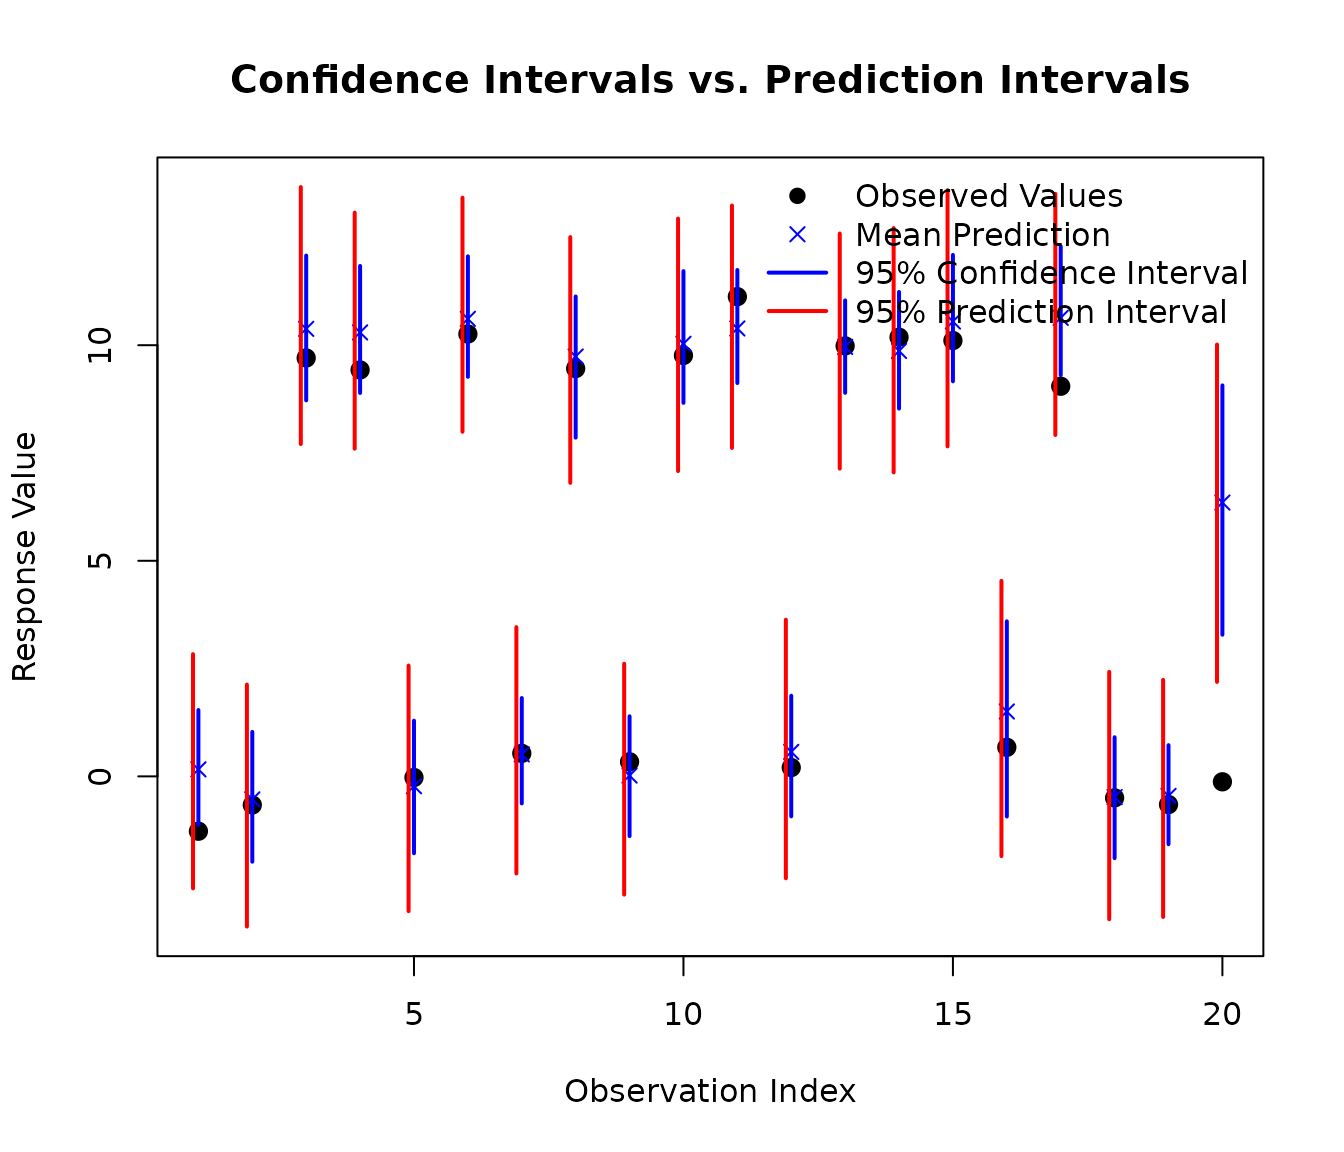
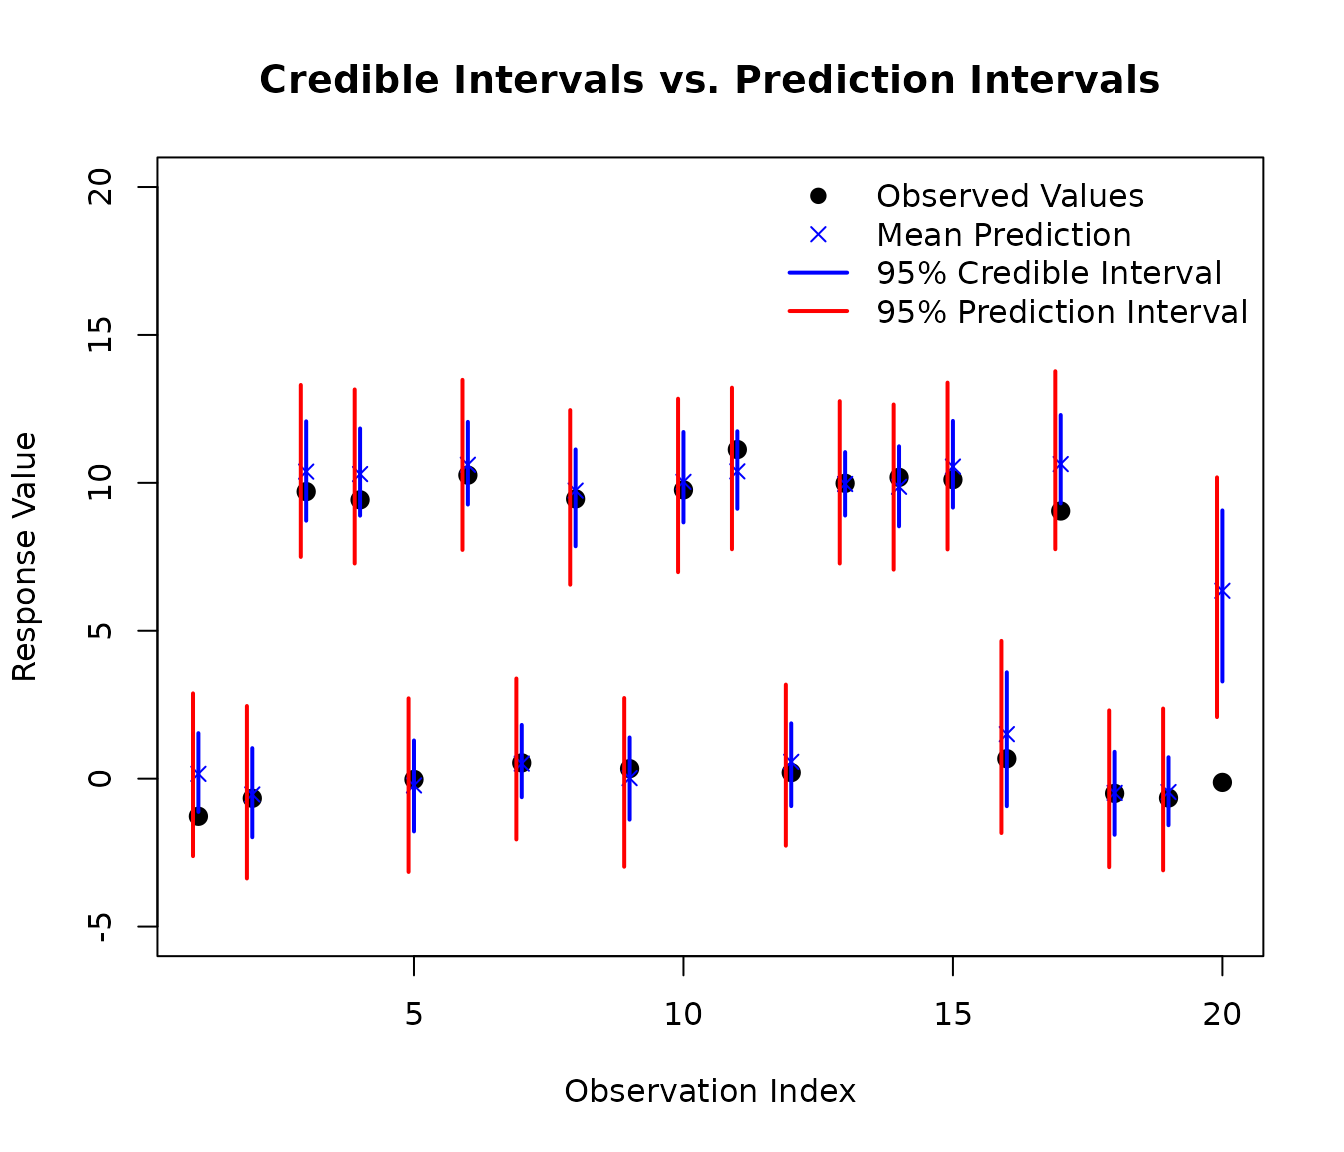
Deploying to gh-pages from @ johnpaulgosling/AddiVortes@4c081cd9cbc1d206dcb015fc3ea8facb98f16ab8 🚀

diff --git a/articles/prediction.html b/articles/prediction.html
@@ -154,7 +154,7 @@ the <code><a href="https://rdrr.io/r/stats/predict.html" class="external-link">p
 <span>                 showProgress <span class="op">=</span> <span class="cn">FALSE</span><span class="op">)</span></span>
 <span></span>
 <span><span class="co"># Predict the 90% credible interval (from 0.05 to 0.95 quantiles)</span></span>
-<span><span class="co"># By default, this uses interval = "confidence" which only accounts for</span></span>
+<span><span class="co"># By default, this uses interval = "credible" which only accounts for</span></span>
 <span><span class="co"># uncertainty in the mean function</span></span>
 <span><span class="va">preds_q</span> <span class="op">&lt;-</span> <span class="fu"><a href="https://rdrr.io/r/stats/predict.html" class="external-link">predict</a></span><span class="op">(</span><span class="va">AModel</span>, <span class="va">testX</span>,</span>
 <span>                   <span class="st">"quantile"</span>, <span class="fu"><a href="https://rdrr.io/r/base/c.html" class="external-link">c</a></span><span class="op">(</span><span class="fl">0.05</span>, <span class="fl">0.95</span><span class="op">)</span>, showProgress <span class="op">=</span> <span class="cn">FALSE</span><span class="op">)</span></span>
@@ -217,13 +217,13 @@ underlying structure of the data with predictions clustering correctly
 around the true mean values of 0 and 10.</p>
 </div>
 <div class="section level3">
-<h3 id="confidence-intervals-vs--prediction-intervals">5. Confidence Intervals vs. Prediction Intervals<a class="anchor" aria-label="anchor" href="#confidence-intervals-vs--prediction-intervals"></a>
+<h3 id="credible-intervals-vs--prediction-intervals">5. Credible Intervals vs. Prediction Intervals<a class="anchor" aria-label="anchor" href="#credible-intervals-vs--prediction-intervals"></a>
 </h3>
 <p>The <code><a href="https://rdrr.io/r/stats/predict.html" class="external-link">predict()</a></code> method supports two types of intervals,
 similar to R’s built-in <code>lm</code> function:</p>
 <ul>
-<li><p><strong>Confidence intervals</strong>
-(<code>interval = "confidence"</code>, the default): These reflect
+<li><p><strong>Credible intervals</strong>
+(<code>interval = "credible"</code>, the default): These reflect
 uncertainty in the <strong>mean function</strong> E[Y|X]. They account
 for posterior sampling variability and uncertainty in the tessellation
 structure, but do not include the inherent noise in individual
@@ -242,10 +242,10 @@ data:</p>
 <span><span class="va">testX_subset</span> <span class="op">&lt;-</span> <span class="va">testX</span><span class="op">[</span><span class="va">subset_indices</span>, <span class="op">]</span></span>
 <span><span class="va">testY_subset</span> <span class="op">&lt;-</span> <span class="va">testY</span><span class="op">[</span><span class="va">subset_indices</span><span class="op">]</span></span>
 <span></span>
-<span><span class="co"># Get confidence intervals (uncertainty in mean only)</span></span>
-<span><span class="va">conf_intervals</span> <span class="op">&lt;-</span> <span class="fu"><a href="https://rdrr.io/r/stats/predict.html" class="external-link">predict</a></span><span class="op">(</span><span class="va">AModel</span>, <span class="va">testX_subset</span>,</span>
+<span><span class="co"># Get credible intervals (uncertainty in mean only)</span></span>
+<span><span class="va">cred_intervals</span> <span class="op">&lt;-</span> <span class="fu"><a href="https://rdrr.io/r/stats/predict.html" class="external-link">predict</a></span><span class="op">(</span><span class="va">AModel</span>, <span class="va">testX_subset</span>,</span>
 <span>                         type <span class="op">=</span> <span class="st">"quantile"</span>,</span>
-<span>                         interval <span class="op">=</span> <span class="st">"confidence"</span>,</span>
+<span>                         interval <span class="op">=</span> <span class="st">"credible"</span>,</span>
 <span>                         quantiles <span class="op">=</span> <span class="fu"><a href="https://rdrr.io/r/base/c.html" class="external-link">c</a></span><span class="op">(</span><span class="fl">0.025</span>, <span class="fl">0.975</span><span class="op">)</span>,</span>
 <span>                         showProgress <span class="op">=</span> <span class="cn">FALSE</span><span class="op">)</span></span>
 <span></span>
@@ -263,19 +263,18 @@ data:</p>
 <span></span>
 <span><span class="co"># Create comparison plot</span></span>
 <span><span class="fu"><a href="https://rdrr.io/r/graphics/plot.default.html" class="external-link">plot</a></span><span class="op">(</span><span class="fl">1</span><span class="op">:</span><span class="fu"><a href="https://rdrr.io/r/base/length.html" class="external-link">length</a></span><span class="op">(</span><span class="va">testY_subset</span><span class="op">)</span>, <span class="va">testY_subset</span>,</span>
-<span>     ylim <span class="op">=</span> <span class="fu"><a href="https://rdrr.io/r/base/range.html" class="external-link">range</a></span><span class="op">(</span><span class="fu"><a href="https://rdrr.io/r/base/c.html" class="external-link">c</a></span><span class="op">(</span><span class="va">testY_subset</span>, <span class="va">pred_intervals</span><span class="op">)</span><span class="op">)</span>,</span>
 <span>     xlab <span class="op">=</span> <span class="st">"Observation Index"</span>,</span>
 <span>     ylab <span class="op">=</span> <span class="st">"Response Value"</span>,</span>
-<span>     main <span class="op">=</span> <span class="st">"Confidence Intervals vs. Prediction Intervals"</span>,</span>
-<span>     pch <span class="op">=</span> <span class="fl">19</span>, col <span class="op">=</span> <span class="st">"black"</span>, cex <span class="op">=</span> <span class="fl">1.2</span><span class="op">)</span></span>
+<span>     main <span class="op">=</span> <span class="st">"Credible Intervals vs. Prediction Intervals"</span>,</span>
+<span>     pch <span class="op">=</span> <span class="fl">19</span>, col <span class="op">=</span> <span class="st">"black"</span>, cex <span class="op">=</span> <span class="fl">1.2</span>, ylim <span class="op">=</span> <span class="fu"><a href="https://rdrr.io/r/base/c.html" class="external-link">c</a></span><span class="op">(</span><span class="op">-</span><span class="fl">5</span>,<span class="fl">20</span><span class="op">)</span><span class="op">)</span></span>
 <span></span>
 <span><span class="co"># Add mean predictions</span></span>
 <span><span class="fu"><a href="https://rdrr.io/r/graphics/points.html" class="external-link">points</a></span><span class="op">(</span><span class="fl">1</span><span class="op">:</span><span class="fu"><a href="https://rdrr.io/r/base/length.html" class="external-link">length</a></span><span class="op">(</span><span class="va">testY_subset</span><span class="op">)</span>, <span class="va">mean_preds</span>, pch <span class="op">=</span> <span class="fl">4</span>, col <span class="op">=</span> <span class="st">"blue"</span>, cex <span class="op">=</span> <span class="fl">1</span><span class="op">)</span></span>
 <span></span>
-<span><span class="co"># Add confidence intervals (narrower, in blue)</span></span>
+<span><span class="co"># Add credible intervals (narrower, in blue)</span></span>
 <span><span class="kw">for</span> <span class="op">(</span><span class="va">i</span> <span class="kw">in</span> <span class="fl">1</span><span class="op">:</span><span class="fu"><a href="https://rdrr.io/r/base/length.html" class="external-link">length</a></span><span class="op">(</span><span class="va">testY_subset</span><span class="op">)</span><span class="op">)</span> <span class="op">{</span></span>
-<span>  <span class="fu"><a href="https://rdrr.io/r/graphics/segments.html" class="external-link">segments</a></span><span class="op">(</span><span class="va">i</span>, <span class="va">conf_intervals</span><span class="op">[</span><span class="va">i</span>, <span class="fl">1</span><span class="op">]</span>,</span>
-<span>           <span class="va">i</span>, <span class="va">conf_intervals</span><span class="op">[</span><span class="va">i</span>, <span class="fl">2</span><span class="op">]</span>,</span>
+<span>  <span class="fu"><a href="https://rdrr.io/r/graphics/segments.html" class="external-link">segments</a></span><span class="op">(</span><span class="va">i</span>, <span class="va">cred_intervals</span><span class="op">[</span><span class="va">i</span>, <span class="fl">1</span><span class="op">]</span>,</span>
+<span>           <span class="va">i</span>, <span class="va">cred_intervals</span><span class="op">[</span><span class="va">i</span>, <span class="fl">2</span><span class="op">]</span>,</span>
 <span>           col <span class="op">=</span> <span class="st">"blue"</span>, lwd <span class="op">=</span> <span class="fl">2</span><span class="op">)</span></span>
 <span><span class="op">}</span></span>
 <span></span>
@@ -289,7 +288,7 @@ data:</p>
 <span><span class="co"># Add legend</span></span>
 <span><span class="fu"><a href="https://rdrr.io/r/graphics/legend.html" class="external-link">legend</a></span><span class="op">(</span><span class="st">"topright"</span>,</span>
 <span>       legend <span class="op">=</span> <span class="fu"><a href="https://rdrr.io/r/base/c.html" class="external-link">c</a></span><span class="op">(</span><span class="st">"Observed Values"</span>, <span class="st">"Mean Prediction"</span>,</span>
-<span>                  <span class="st">"95% Confidence Interval"</span>, <span class="st">"95% Prediction Interval"</span><span class="op">)</span>,</span>
+<span>                  <span class="st">"95% Credible Interval"</span>, <span class="st">"95% Prediction Interval"</span><span class="op">)</span>,</span>
 <span>       col <span class="op">=</span> <span class="fu"><a href="https://rdrr.io/r/base/c.html" class="external-link">c</a></span><span class="op">(</span><span class="st">"black"</span>, <span class="st">"blue"</span>, <span class="st">"blue"</span>, <span class="st">"red"</span><span class="op">)</span>,</span>
 <span>       pch <span class="op">=</span> <span class="fu"><a href="https://rdrr.io/r/base/c.html" class="external-link">c</a></span><span class="op">(</span><span class="fl">19</span>, <span class="fl">4</span>, <span class="cn">NA</span>, <span class="cn">NA</span><span class="op">)</span>,</span>
 <span>       lty <span class="op">=</span> <span class="fu"><a href="https://rdrr.io/r/base/c.html" class="external-link">c</a></span><span class="op">(</span><span class="cn">NA</span>, <span class="cn">NA</span>, <span class="fl">1</span>, <span class="fl">1</span><span class="op">)</span>,</span>
@@ -297,12 +296,12 @@ data:</p>
 <span>       bty <span class="op">=</span> <span class="st">"n"</span><span class="op">)</span></span></code></pre></div>
 <p><img src="prediction_files/figure-html/unnamed-chunk-6-1.png" width="672" style="display: block; margin: auto;"></p>
 <p>As you can see in the plot, the prediction intervals (red) are wider
-than the confidence intervals (blue). This is because prediction
-intervals account for both:</p>
+than the credible intervals (blue). This is because prediction intervals
+account for both:</p>
 <ol style="list-style-type: decimal">
 <li>
 <strong>Epistemic uncertainty</strong>: Our uncertainty about the
-true mean function (captured by the confidence interval)</li>
+true mean function (captured by the credible interval)</li>
 <li>
 <strong>Aleatoric uncertainty</strong>: The inherent random noise in
 individual observations (the additional width in prediction
@@ -311,18 +310,18 @@ intervals)</li>
 <p>We can quantify this difference:</p>
 <div class="sourceCode" id="cb7"><pre class="downlit sourceCode r">
 <code class="sourceCode R"><span><span class="co"># Calculate average interval widths</span></span>
-<span><span class="va">conf_width</span> <span class="op">&lt;-</span> <span class="fu"><a href="https://rdrr.io/r/base/mean.html" class="external-link">mean</a></span><span class="op">(</span><span class="va">conf_intervals</span><span class="op">[</span>, <span class="fl">2</span><span class="op">]</span> <span class="op">-</span> <span class="va">conf_intervals</span><span class="op">[</span>, <span class="fl">1</span><span class="op">]</span><span class="op">)</span></span>
+<span><span class="va">cred_width</span> <span class="op">&lt;-</span> <span class="fu"><a href="https://rdrr.io/r/base/mean.html" class="external-link">mean</a></span><span class="op">(</span><span class="va">cred_intervals</span><span class="op">[</span>, <span class="fl">2</span><span class="op">]</span> <span class="op">-</span> <span class="va">cred_intervals</span><span class="op">[</span>, <span class="fl">1</span><span class="op">]</span><span class="op">)</span></span>
 <span><span class="va">pred_width</span> <span class="op">&lt;-</span> <span class="fu"><a href="https://rdrr.io/r/base/mean.html" class="external-link">mean</a></span><span class="op">(</span><span class="va">pred_intervals</span><span class="op">[</span>, <span class="fl">2</span><span class="op">]</span> <span class="op">-</span> <span class="va">pred_intervals</span><span class="op">[</span>, <span class="fl">1</span><span class="op">]</span><span class="op">)</span></span>
 <span></span>
-<span><span class="fu"><a href="https://rdrr.io/r/base/cat.html" class="external-link">cat</a></span><span class="op">(</span><span class="st">"Average 95% confidence interval width:"</span>, <span class="fu"><a href="https://rdrr.io/r/base/Round.html" class="external-link">round</a></span><span class="op">(</span><span class="va">conf_width</span>, <span class="fl">2</span><span class="op">)</span>, <span class="st">"\n"</span><span class="op">)</span></span>
-<span><span class="co">#&gt; Average 95% confidence interval width: 3.05</span></span>
+<span><span class="fu"><a href="https://rdrr.io/r/base/cat.html" class="external-link">cat</a></span><span class="op">(</span><span class="st">"Average 95% credible interval width:"</span>, <span class="fu"><a href="https://rdrr.io/r/base/Round.html" class="external-link">round</a></span><span class="op">(</span><span class="va">cred_width</span>, <span class="fl">2</span><span class="op">)</span>, <span class="st">"\n"</span><span class="op">)</span></span>
+<span><span class="co">#&gt; Average 95% credible interval width: 3.05</span></span>
 <span><span class="fu"><a href="https://rdrr.io/r/base/cat.html" class="external-link">cat</a></span><span class="op">(</span><span class="st">"Average 95% prediction interval width:"</span>, <span class="fu"><a href="https://rdrr.io/r/base/Round.html" class="external-link">round</a></span><span class="op">(</span><span class="va">pred_width</span>, <span class="fl">2</span><span class="op">)</span>, <span class="st">"\n"</span><span class="op">)</span></span>
-<span><span class="co">#&gt; Average 95% prediction interval width: 5.8</span></span>
-<span><span class="fu"><a href="https://rdrr.io/r/base/cat.html" class="external-link">cat</a></span><span class="op">(</span><span class="st">"Ratio (prediction/confidence):"</span>, <span class="fu"><a href="https://rdrr.io/r/base/Round.html" class="external-link">round</a></span><span class="op">(</span><span class="va">pred_width</span> <span class="op">/</span> <span class="va">conf_width</span>, <span class="fl">2</span><span class="op">)</span>, <span class="st">"\n"</span><span class="op">)</span></span>
-<span><span class="co">#&gt; Ratio (prediction/confidence): 1.9</span></span></code></pre></div>
+<span><span class="co">#&gt; Average 95% prediction interval width: 5.83</span></span>
+<span><span class="fu"><a href="https://rdrr.io/r/base/cat.html" class="external-link">cat</a></span><span class="op">(</span><span class="st">"Ratio (prediction/credible):"</span>, <span class="fu"><a href="https://rdrr.io/r/base/Round.html" class="external-link">round</a></span><span class="op">(</span><span class="va">pred_width</span> <span class="op">/</span> <span class="va">cred_width</span>, <span class="fl">2</span><span class="op">)</span>, <span class="st">"\n"</span><span class="op">)</span></span>
+<span><span class="co">#&gt; Ratio (prediction/credible): 1.91</span></span></code></pre></div>
 <p><strong>When to use each type:</strong></p>
 <ul>
-<li><p>Use <strong>confidence intervals</strong> when you want to
+<li><p>Use <strong>credible intervals</strong> when you want to
 understand uncertainty about the mean response at a given set of
 predictor values (e.g., “What is the average outcome for this type of
 case?”)</p></li>

diff --git a/reference/predict.AddiVortesFit.html b/reference/predict.AddiVortesFit.html
@@ -166,10 +166,7 @@ in the scaled space before unscaling predictions.</p>
 <span class="r-in"><span><span class="va">pred_conf</span> <span class="op">&lt;-</span> <span class="fu"><a href="https://rdrr.io/r/stats/predict.html" class="external-link">predict</a></span><span class="op">(</span><span class="va">fit</span>, <span class="va">X_new</span>, type <span class="op">=</span> <span class="st">"quantile"</span>, </span></span>
 <span class="r-in"><span>                    interval <span class="op">=</span> <span class="st">"confidence"</span>,</span></span>
 <span class="r-in"><span>                    quantiles <span class="op">=</span> <span class="fu"><a href="https://rdrr.io/r/base/c.html" class="external-link">c</a></span><span class="op">(</span><span class="fl">0.025</span>, <span class="fl">0.975</span><span class="op">)</span><span class="op">)</span></span></span>
-<span class="r-out co"><span class="r-pr">#&gt;</span> Generating predictions for 5 observations using 40 posterior samples...</span>
-<span class="r-out co"><span class="r-pr">#&gt;</span> </span>
-<span class="r-out co"><span class="r-pr">#&gt;</span> Prediction generation completed.</span>
-<span class="r-out co"><span class="r-pr">#&gt;</span> </span>
+<span class="r-err co"><span class="r-pr">#&gt;</span> <span class="error">Error in match.arg(interval):</span> 'arg' should be one of “credible”, “prediction”</span>
 <span class="r-in"><span></span></span>
 <span class="r-in"><span><span class="co"># Prediction intervals (includes error variance)</span></span></span>
 <span class="r-in"><span><span class="va">pred_pred</span> <span class="op">&lt;-</span> <span class="fu"><a href="https://rdrr.io/r/stats/predict.html" class="external-link">predict</a></span><span class="op">(</span><span class="va">fit</span>, <span class="va">X_new</span>, type <span class="op">=</span> <span class="st">"quantile"</span>,</span></span>
@@ -182,7 +179,7 @@ in the scaled space before unscaling predictions.</p>
 <span class="r-in"><span></span></span>
 <span class="r-in"><span><span class="co"># Prediction intervals are wider than confidence intervals</span></span></span>
 <span class="r-in"><span><span class="fu"><a href="https://rdrr.io/r/base/mean.html" class="external-link">mean</a></span><span class="op">(</span><span class="va">pred_pred</span><span class="op">[</span>, <span class="fl">2</span><span class="op">]</span> <span class="op">-</span> <span class="va">pred_pred</span><span class="op">[</span>, <span class="fl">1</span><span class="op">]</span><span class="op">)</span> <span class="op">&gt;</span> <span class="fu"><a href="https://rdrr.io/r/base/mean.html" class="external-link">mean</a></span><span class="op">(</span><span class="va">pred_conf</span><span class="op">[</span>, <span class="fl">2</span><span class="op">]</span> <span class="op">-</span> <span class="va">pred_conf</span><span class="op">[</span>, <span class="fl">1</span><span class="op">]</span><span class="op">)</span></span></span>
-<span class="r-out co"><span class="r-pr">#&gt;</span> [1] TRUE</span>
+<span class="r-err co"><span class="r-pr">#&gt;</span> <span class="error">Error:</span> object 'pred_conf' not found</span>
 <span class="r-in"><span><span class="co"># }</span></span></span>
 <span class="r-in"><span></span></span>
 </code></pre></div>
